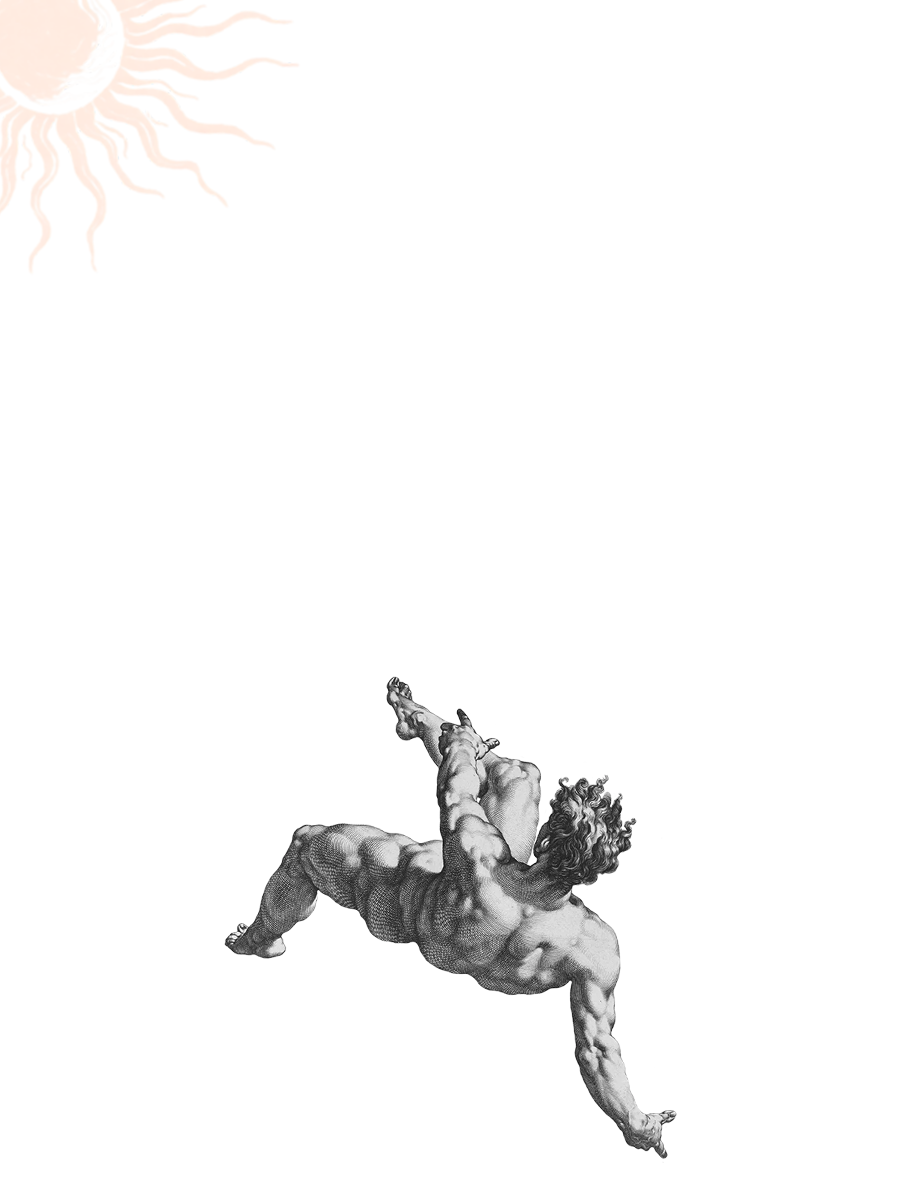
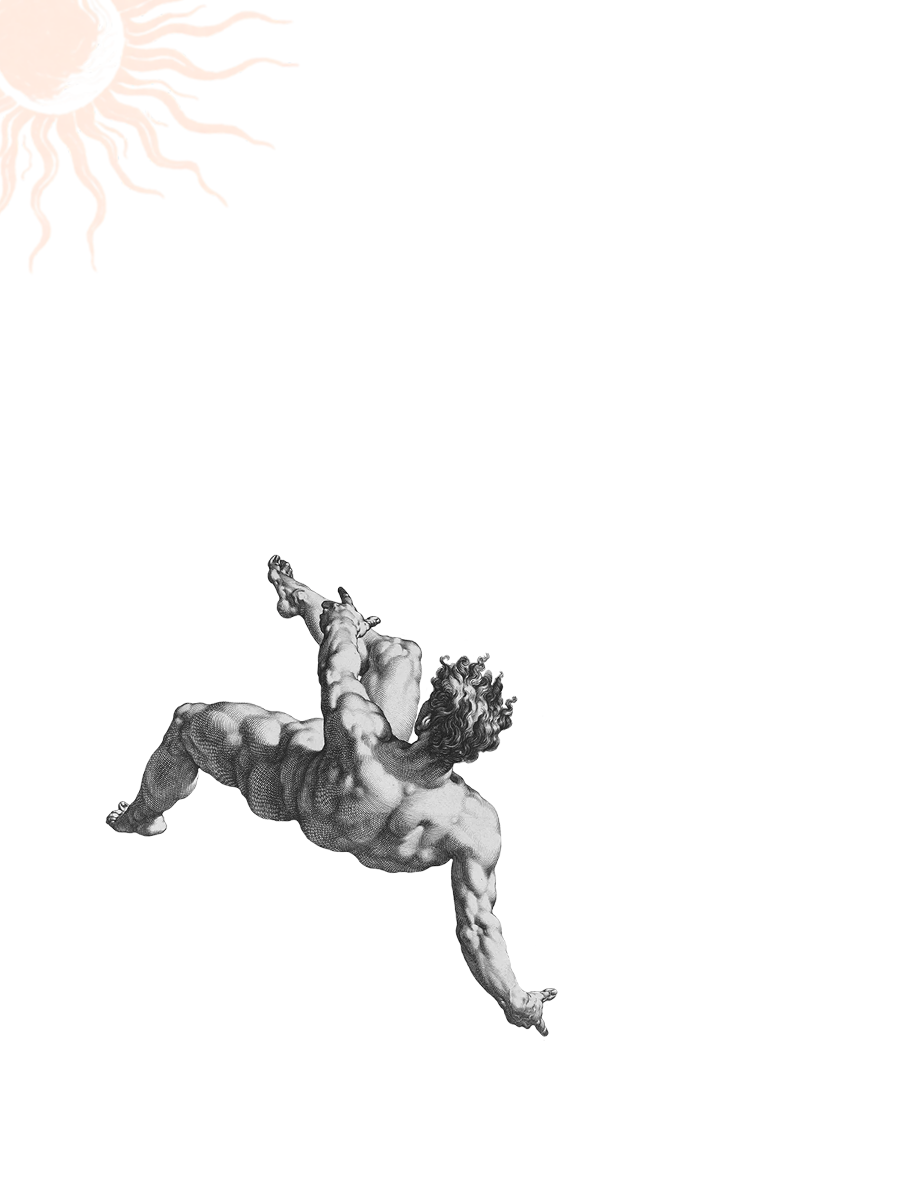
update

Changed region(s): [[0.1244, 0.4625, 0.7467, 0.9867]]

diff --git a/css/style.css b/css/style.css
@@ -5,15 +5,14 @@ body {
 }
 
 .hero {
-    height: 80vh;
+    height: 120vh;
     background-color: black;
-    aspect-ratio: 4/3;
     background-color: #1B1611;
     display: grid;
-    place-content: center; /*start, center, end (shorthand for justify-content with align-content)*/
+    place-content: start center; /*start, center, end (shorthand for justify-content with align-content)*/
     margin-bottom: 2em;
     background: url("../images/hero-literally.png") no-repeat top left #1B1611;
-    background-size: contain;
+    background-size: cover;
 }
 
 .dotted { 
@@ -86,8 +85,22 @@ body {
   }
 
   @media only screen and (max-width: 720px){
+    .hero {
+        place-content: start center;
+        background-image: url("../images/hero-literally-mobile.png");
+    }
     .section {
         grid-template-columns: 1fr;
+
+        .section-child {
+            p.seal {
+                display: none;
+            }
+        
+            p.rust {
+                display: none;
+            }
+        }
       }
 
       .the-story{
@@ -98,6 +111,8 @@ body {
         h2 {
             font-size: 3em;
         }
+
+        
     }
 
   }
@@ -134,9 +149,9 @@ body {
     grid-template-columns: 1fr 2fr;
     gap: 10em;
     margin: 5em;
-  }
+}
   
-  .section-art {
+.section-art {
     min-height: 1em;
     /*background-color: #d6d6d6;*/
     img {
@@ -156,9 +171,15 @@ body {
         color: #E6D8BD;
         font-size: 60px; 
     }
-  }
+}
 
-  @media only screen and (max-width: 720px){
+.the-end{
+    img {
+        url("../images/waves-mobile.png")
+    }
+}
+
+@media only screen and (max-width: 720px){
     .art-section {
         grid-template-columns: 1fr;
       }
@@ -172,6 +193,5 @@ body {
             font-size: 3em;
         }
     }
-
-  }
+}
 

diff --git a/index.html b/index.html
@@ -191,9 +191,9 @@
         </div>
 
 
-         <footer class="the-end">
-                <img src="images/waves.png">
-         </footer>
+         <div class="the-end">
+            <img src="images/waves.png">
+         </div>
 
     </div>
 
